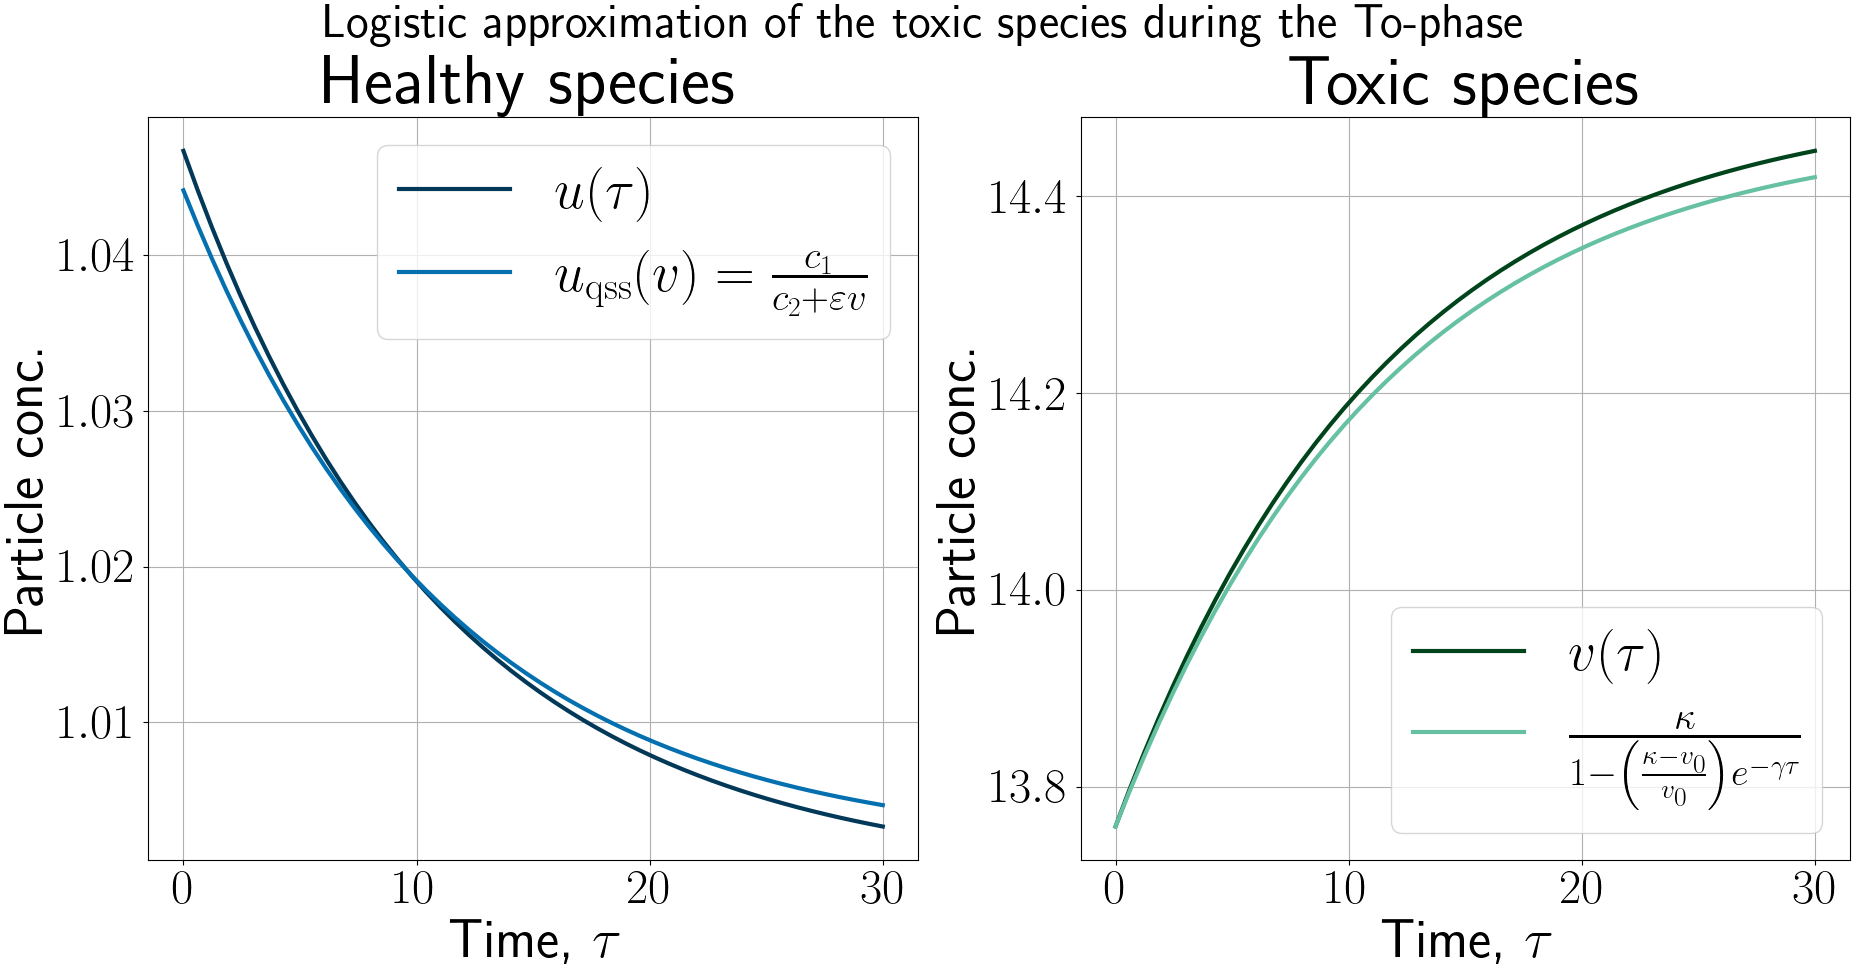
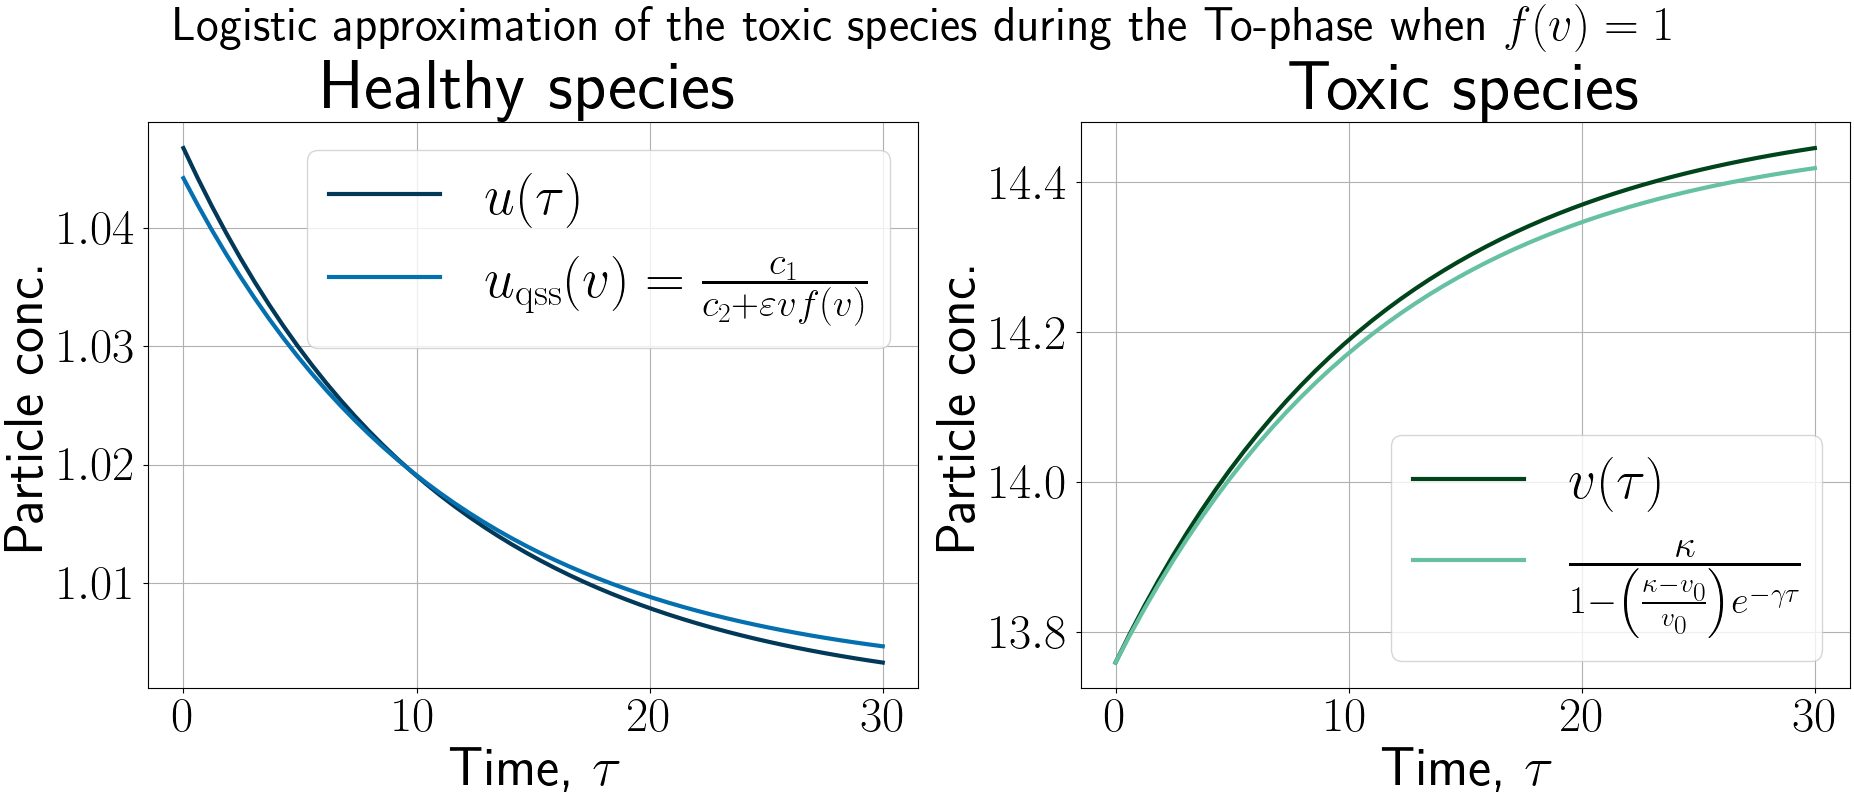
Change the logistic figure so that it contains information about f(v)=1

diff --git a/Code/HeMiTo.py b/Code/HeMiTo.py
@@ -311,7 +311,7 @@ def main():
     f_prions_log, ax_prions_log = plt.subplots(1, 2, constrained_layout=True, figsize=(20, 8))
     # Plot the simulated data and the underlying model
     ax_prions_log[0].plot(t_log,u_log,color=(2/256,56/256,88/256),label="$u(\\tau)$",linewidth=3.0)
-    ax_prions_log[0].plot(t_log,u_log_approx,color=(5/256,112/256,176/256),label="$u_{\\mathrm{qss}}(v)=\\frac{c_{1}}{c_{2}+\\varepsilon{v}}$",linewidth=3.0)    
+    ax_prions_log[0].plot(t_log,u_log_approx,color=(5/256,112/256,176/256),label="$u_{\\mathrm{qss}}(v)=\\frac{c_{1}}{c_{2}+\\varepsilon{v}{f}(v)}$",linewidth=3.0)    
     # Set a grid and define a legend
     ax_prions_log[0].grid()
     ax_prions_log[0].legend(loc='best',prop={"size":40})
@@ -336,7 +336,7 @@ def main():
     ax_prions_log[1].set_title(label="Toxic species",fontsize=50)    
     ax_prions_log[1].xaxis.set_tick_params(labelsize=35)
     ax_prions_log[1].yaxis.set_tick_params(labelsize=35)
-    plt.suptitle("Logistic approximation of the toxic species during the To-phase",fontsize=35)
+    plt.suptitle("Logistic approximation of the toxic species during the To-phase when $f(v)=1$",fontsize=35)
     plt.show()
     f_prions_log.savefig('../Figures/To_phase_logistic.png')
 
